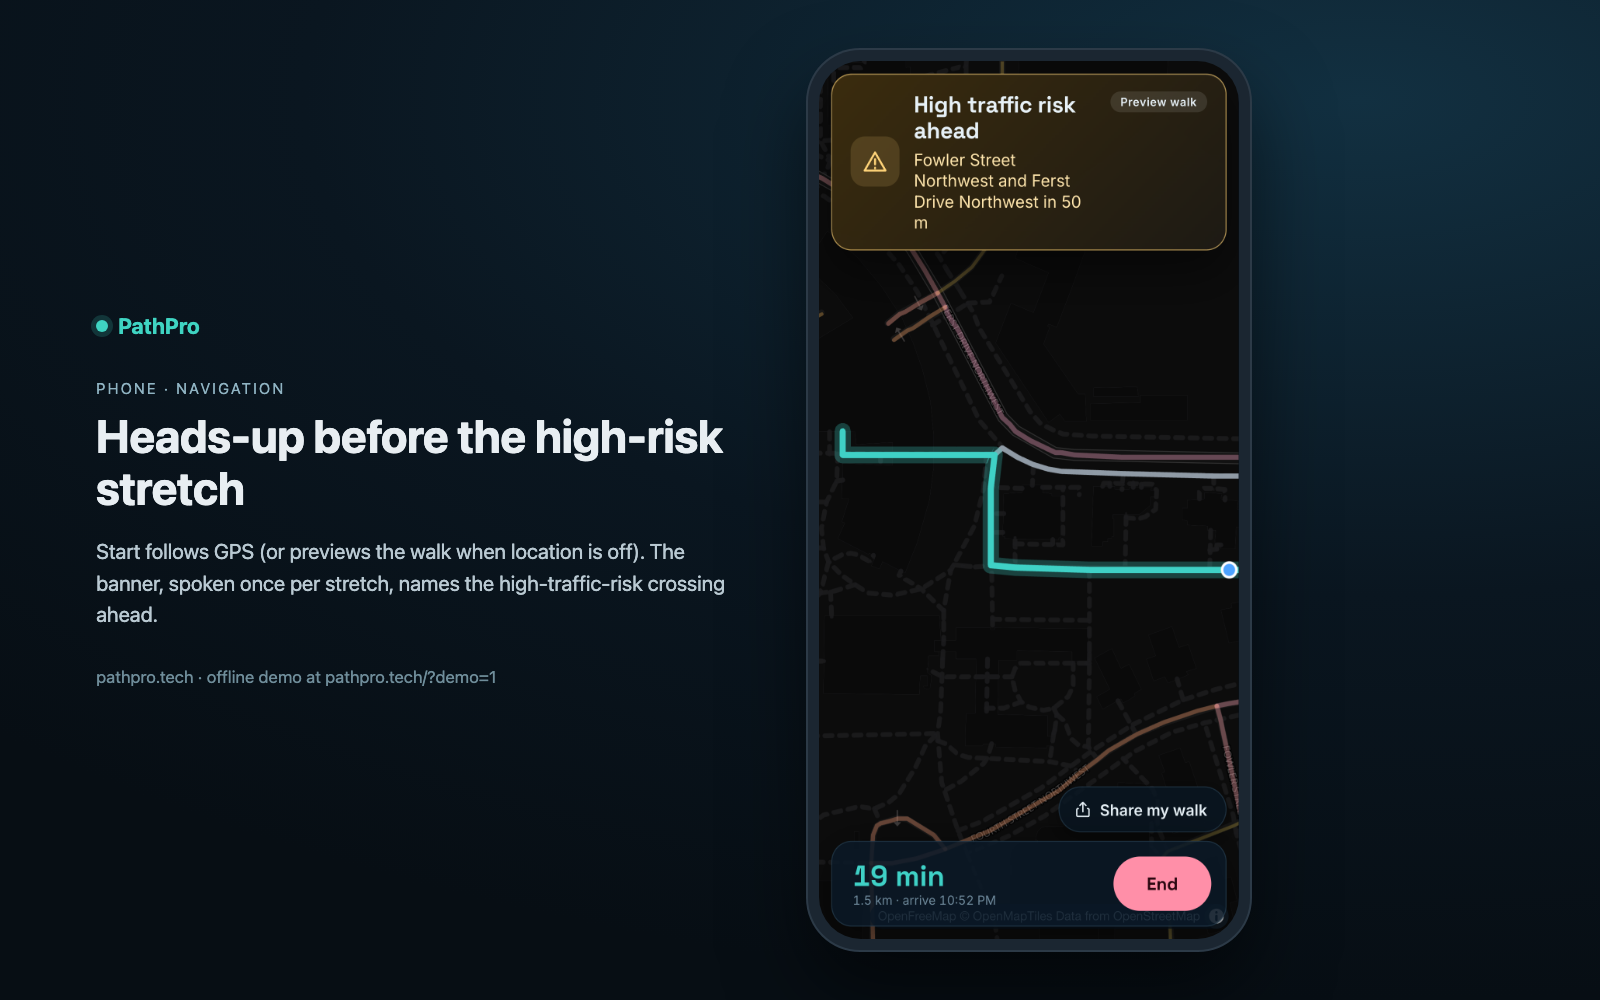
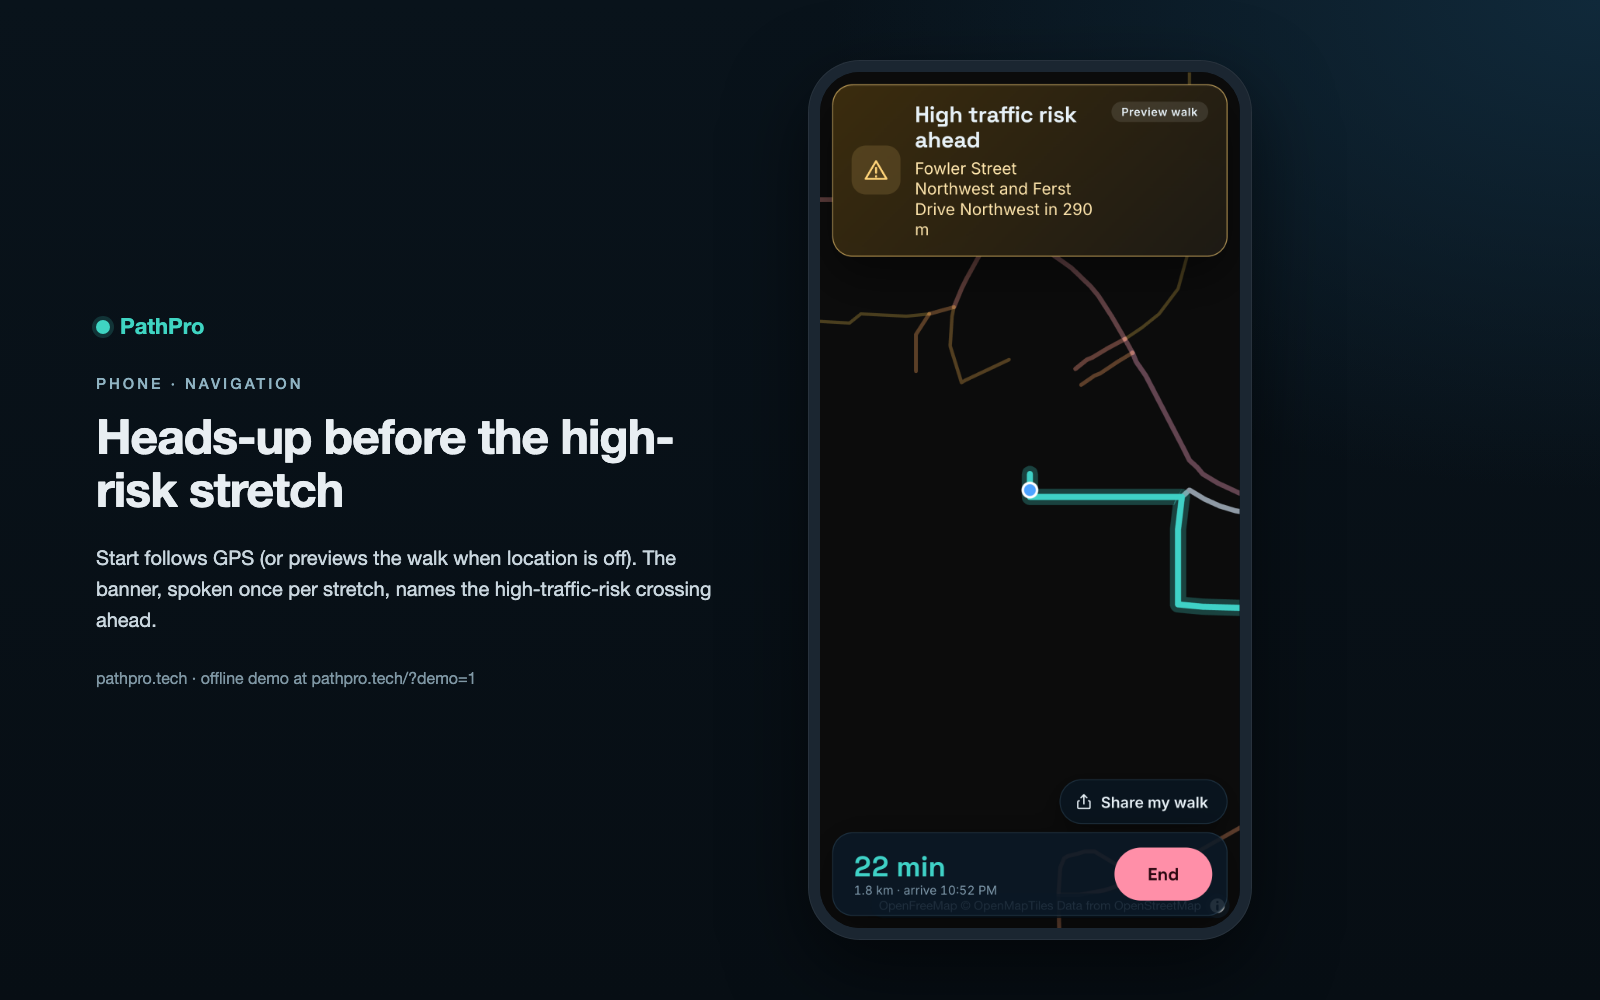
docs: retake remaining gallery and README screenshots on the refreshed UI
Retake gallery 01, 03 and 05-08 and the README grid images (risk-tides,
route-compare, segment-detail, city-pulse) on https://pathpro.tech with
the agent button, Ask pills and segmented mode control. Reads, routes and
explanations only; no reports, shared walks or Ask memory; location off.

diff --git a/docs/images/gallery/README.md b/docs/images/gallery/README.md
@@ -2,17 +2,17 @@
 
 Thirteen app images plus one Tiger Data chart, in upload order. `01`–`08` and `13` are 1600×1000; `09`–`11` are 390×844 phone captures at 2× (780×1688) and `12` is a 1440×900 desktop capture. Framed phone shots are Pixel 7 captures (1082×2202) placed on a 1600×1000 card. Nothing was created on the production server: no street reports, no shared walks, and no new street illustrations.
 
-**UI refresh (26 September 2026).** `02`, `04` and `09`–`13` were retaken from the live site at https://pathpro.tech after the UI refresh: the round Ask PathPro agent button on the map, the chat-style Ask panel, the "Ask about this street / route / area" pills, and the segmented travel-mode control. `02` still uses the offline demo (https://pathpro.tech/?demo=1, deterministic: Klaus → Midtown MARTA, Friday 10:30 PM, wet), served from the live site. `01`, `03` and `05`–`08` are from the earlier capture and predate the refresh.
+**UI refresh (26–27 September 2026).** Every app image (`01`–`13`) now shows the refreshed UI, captured from the live site at https://pathpro.tech: the round Ask PathPro agent button on the map, the chat-style Ask panel, the "Ask about this street / route / area" pills, and the segmented travel-mode control. `02`, `03` and the left phone in `08` use the offline demo (https://pathpro.tech/?demo=1, deterministic: Klaus → Midtown MARTA, Friday 10:30 PM, wet), served from the live site. `01`, `05`, `06` and `07` use the live service with the time pinned to Friday 10:30 PM, wet.
 
 | File | Devpost caption |
 | --- | --- |
-| `01-phone-home-routine-suggestion.png` | Map-first home: one "Where to?" pill, and your usual walk (learned on the device only) is one tap away. |
+| `01-phone-home-routine-suggestion.png` | Map-first home: one "Where to?" pill, your usual walk (learned on the device only) one tap away, and the round Ask PathPro agent button. |
 | `02-phone-route-comparison.png` | Fastest vs PathPro route: +4 min for 54% less traffic-risk exposure, with the Walk · Bike · E-bike · Scooter mode control and Start, Listen, Why? and Share. |
 | `03-phone-navigation-alert.png` | Walking navigation warns before the high-traffic-risk stretch; without GPS it previews the walk. |
 | `04-desktop-risk-tides-home.png` | Desktop: a persistent sidebar, with Risk Tides re-coloring about 50,000 Atlanta street segments by hour, day and weather, and the Ask PathPro agent button above the zoom buttons. |
-| `05-desktop-route-explanation.png` | Why this route: a grounded explanation, the high-risk stretches it avoids, and the stretch both routes share. |
+| `05-desktop-route-explanation.png` | Why this route: the Walk · Bike · E-bike · Scooter control, a grounded explanation, the "Ask about this route" pill, and the high-risk stretches the route avoids. |
 | `06-personal-safety-fairness-help-points.png` | Personal-safety mode: help points and reported crimes against persons, always with the fairness note. Crime never chooses routes. |
-| `07-city-pulse-area-score-live.png` | City Pulse (live site): area traffic-risk scores for all 3,537 hexes of the City of Atlanta, with the factors behind one area's score. |
+| `07-city-pulse-area-score-live.png` | City Pulse (live site): area traffic-risk scores for all 3,537 hexes of the City of Atlanta, with the factors behind one area's score and the "Ask about this area" pill. |
 | `08-share-my-walk-follow.png` | Share my walk: a live link a friend can follow, which expires 6 hours after the last update. The follow page shows a sample walk served in the browser. |
 | `09-ask-pathpro-street.png` | Ask about this street (Fifth Street NW, 9 PM), in the chat panel: the context pill, your question in a teal bubble, and an answer that lists the same factors as the score bars. |
 | `10-ask-pathpro-memory.png` | Ask PathPro opened from the agent button: a general answer, suggestion chips, the round Send button, and the opt-in "Remember my preferences" switch (off) with its privacy note. |
@@ -28,4 +28,5 @@ Thirteen app images plus one Tiger Data chart, in upload order. `01`–`08` and 
   - The "Sharing live" state in `08` is the demo's on-device simulation.
   - The follow page in `08` is fed a sample walk by intercepting its `GET /api/walks/…` request inside the browser, so no walk exists on the server.
 - **Tiger chart.** A Python script queried the Tiger Data service read-only: hypertable chunk count, row counts, and the hour-of-day profile from `crashes_hourly` in Atlanta local time. Matplotlib rendered the chart. Counts are weighted sums, because an intersection crash is split across its approaches.
-- **Refreshed screens (`02`, `04`, `09`–`13`).** Playwright (headless Chromium) against the live site, https://pathpro.tech, with real Backboard answers. A request filter in the script let through only reads, route and explanation requests, Ask questions, and the Imagine request for streets that already had a cached picture. Everything else, including street reports, shared walks and Ask memory, was blocked. Location permission was never granted, and "Remember my preferences" stayed off (`10` opens only its info note). `11` loads the cached, Gemini-checked picture for 10th Street NW, so no new picture was generated. `02` and `13` are Pixel 7 captures placed on a 1600×1000 card.
+- **Refreshed screens (`01`–`08`, 27 September).** Playwright (headless Chromium) against the live site, with a request filter that let through only reads and the route and explanation requests; every other write (street reports, shared walks, Ask, Ask memory, Imagine) was blocked. Location permission was never granted, so Start previews the walk. `01` pins the browser clock to Friday 10:25 PM so the seeded routine matches the hour. The "Sharing live" phone in `08` is the demo's on-device simulation (the system share sheet was cancelled in the script), and its follow page is fed a sample walk through an in-browser `GET /api/walks/…` intercept. `01`, `03` and `08` are Pixel 7 captures placed on a 1600×1000 card; `05`–`07` are 1600×1000 desktop captures.
+- **Refreshed screens (`02`, `04`, `09`–`13`, 26 September).** Playwright (headless Chromium) against the live site, https://pathpro.tech, with real Backboard answers. A request filter in the script let through only reads, route and explanation requests, Ask questions, and the Imagine request for streets that already had a cached picture. Everything else, including street reports, shared walks and Ask memory, was blocked. Location permission was never granted, and "Remember my preferences" stayed off (`10` opens only its info note). `11` loads the cached, Gemini-checked picture for 10th Street NW, so no new picture was generated. `02` and `13` are Pixel 7 captures placed on a 1600×1000 card.
